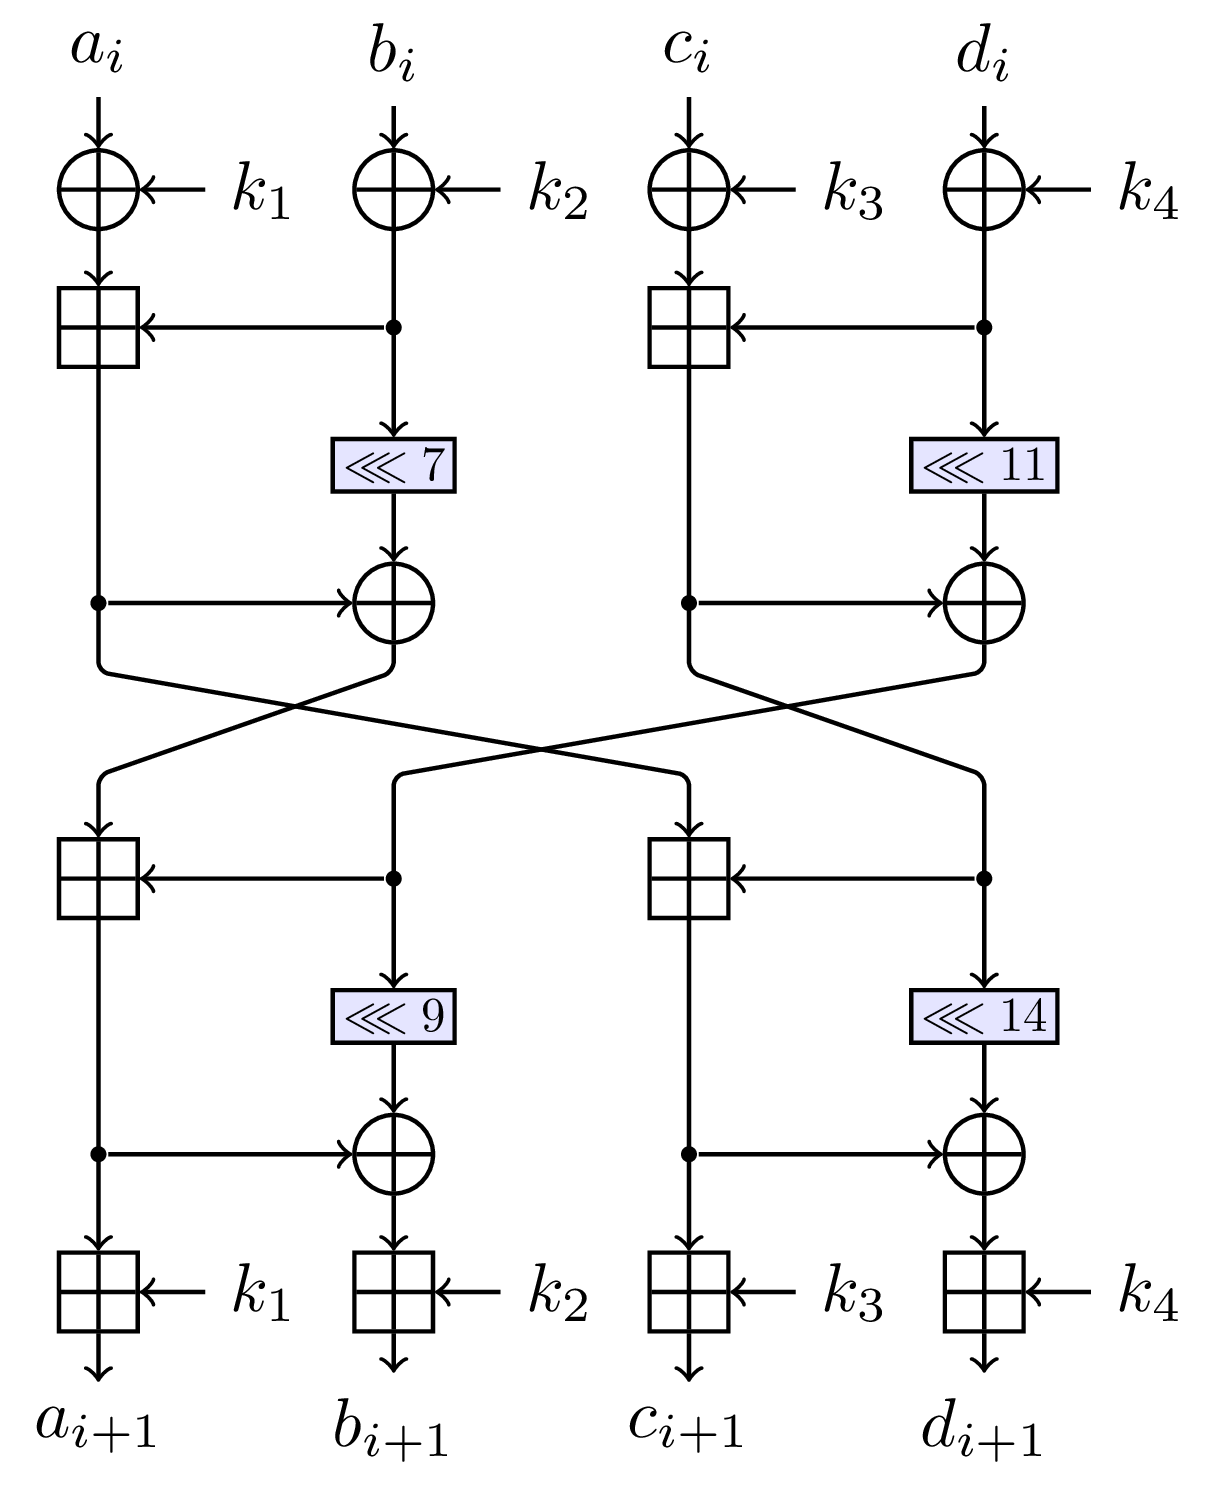
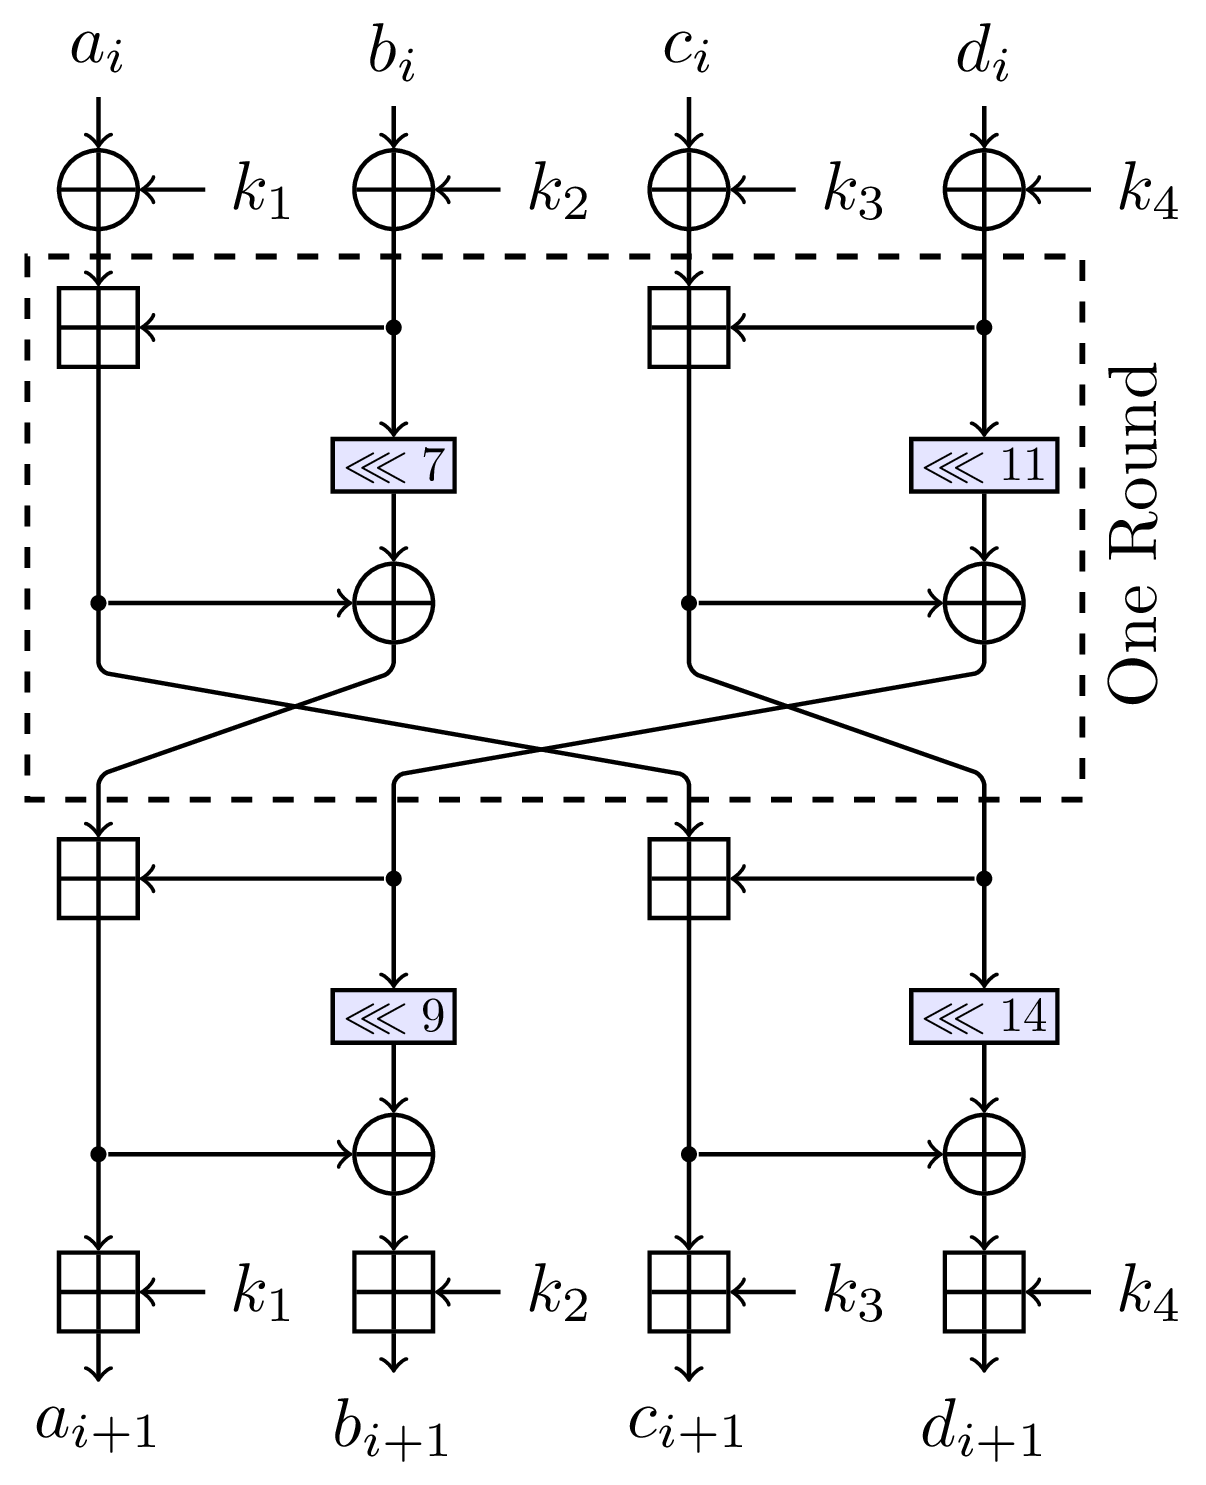
Updating README.md and diagram.

Changed region(s): [[0.8897, 0.2478, 0.9818, 0.4956], [0.0, 0.3407, 0.0307, 0.4646], [0.8897, 0.1859, 0.9204, 0.2168]]

diff --git a/docs/diagram1.tex b/docs/diagram1.tex
@@ -82,6 +82,9 @@
 	\node[xor] at (\XD, \Y-4*\dY) (op2C) {};
 	\node[dot] at (\XC, \Y-4*\dY) (op2Cdot) {};
 
+	\draw[thick,dashed] ($(op1A.north west)+(-0.15,0.15)$) rectangle ($(op2C.south east)+(0.35,-0.85)$);
+	\node[rotate=90] at (\XD+0.75, \Y-3.5*\dY) (rectlabel) {One Round};
+
 	% Mix 3
 	\node[oplus] at (\XA, \Y-6*\dY) (op3A) {};
 	\node[dot] at (\XB, \Y-6*\dY) (op3Adot) {};

diff --git a/README.md b/README.md
@@ -13,13 +13,13 @@ Bit-blasting refers to decomposing arithmetic operations into SAT instances.
 The file `bit_blast.py` implements an interface for bit-blasting various arithmetic operations on fixed-width integers into SAT instances, suitable for passing into `solver.py`.
 
 We use this to do some very basic cryptanalysis on a toy "block cipher" based on the design of Threefish, which I'll be calling Toyfish here.
-Diagrammed below:
+Diagrammed below is Toyfish, with two rounds:
 
 ![Toyfish](/docs/diagram1.png?raw=true "Toyfish block cipher")
 
 Here each line carries 16 bits, yielding a 64-bit block cipher with a 64-bit key.
-One round of this cipher consists of applying a Threefish-style mix operation on the left two words and right two words, then permuting the words.
-(The permutation after the last pass of mix operations is suppressed, because it clearly adds no security.)
+One round of this cipher consists of applying the Threefish mix operation on the left two words and right two words, then permuting all four words.
+(The permutation at the end of the last round is omitted, because it clearly adds no security.)
 Finally, the block is whitened with the key by XOR at the beginning and by addition at the end of the cipher.
 The innards of this cipher obviously don't provide anything even remotely resembling enough diffusion at just two rounds, as depicted above.
 It's really a disgustingly terrible design, and is probably utterly insecure even if the number of rounds (two) weren't a complete joke, but it'll suffice as a test case for our SAT solver.
